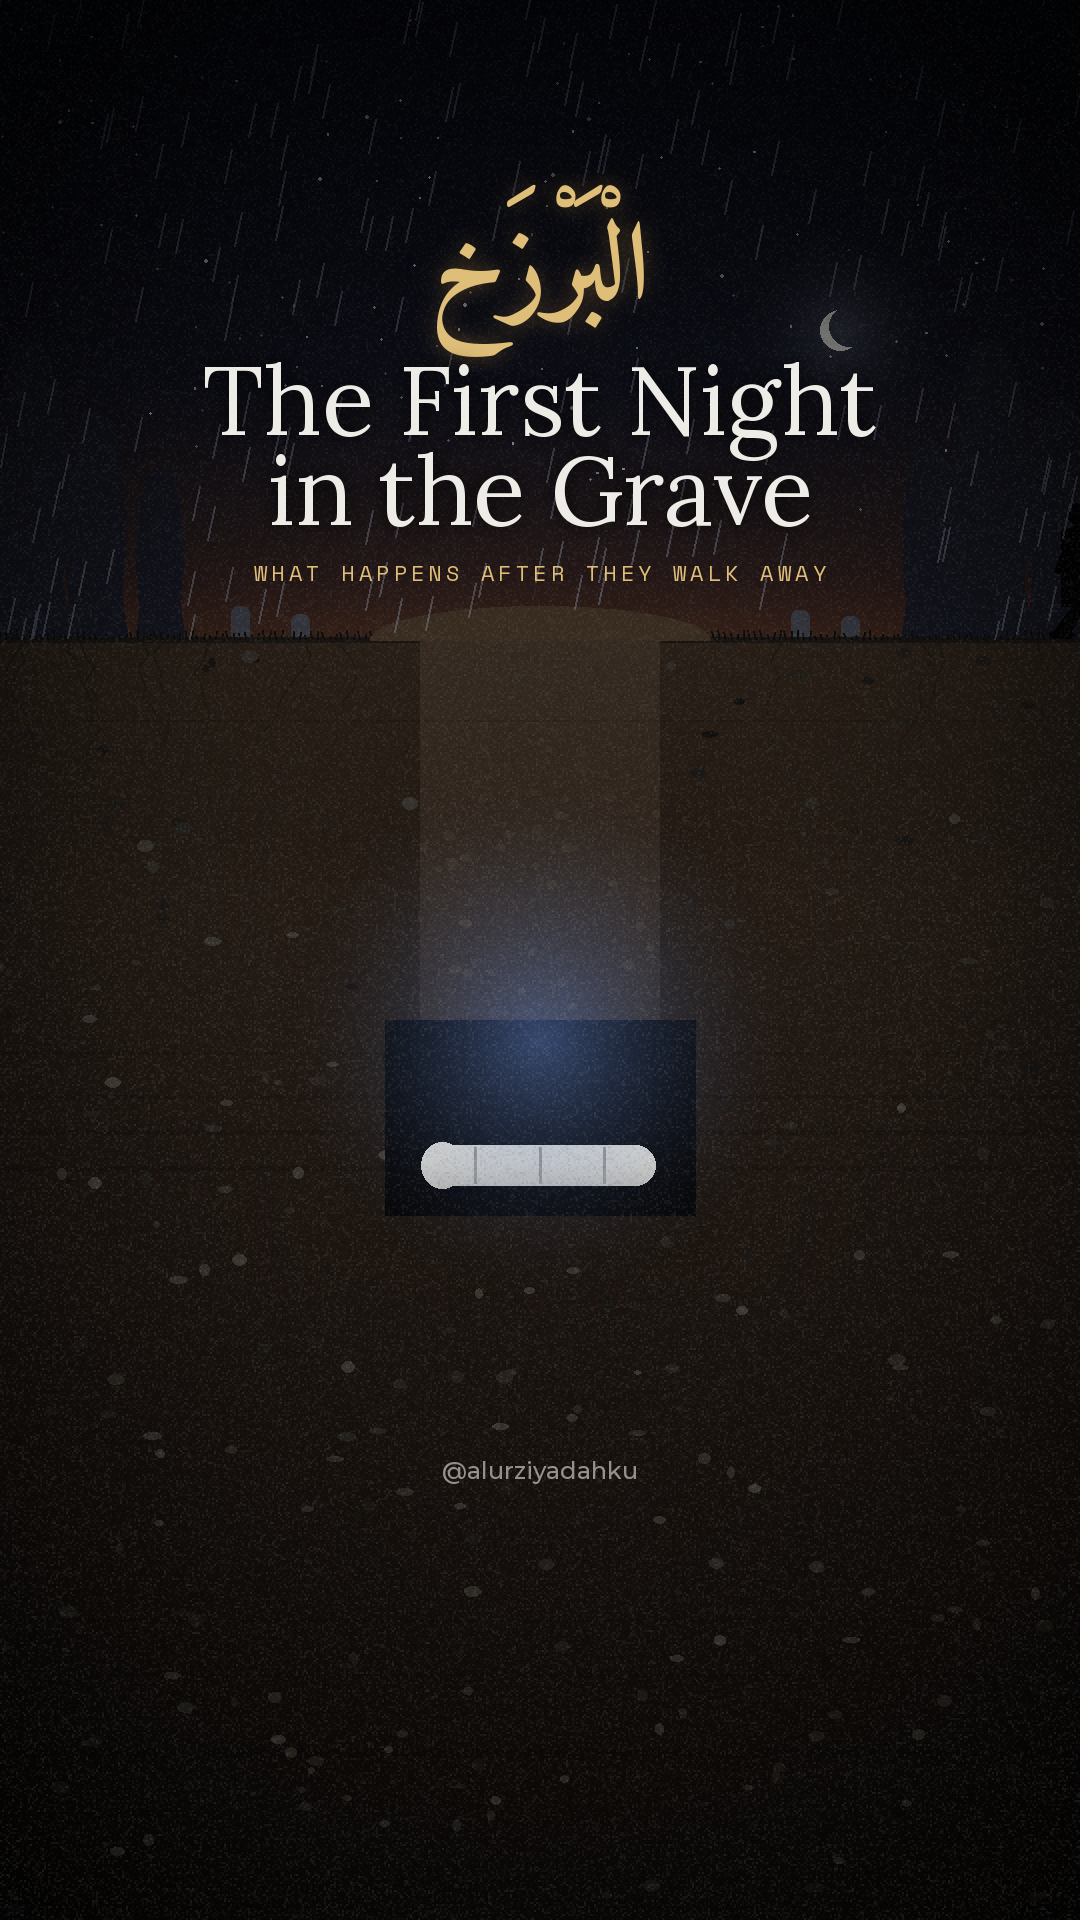
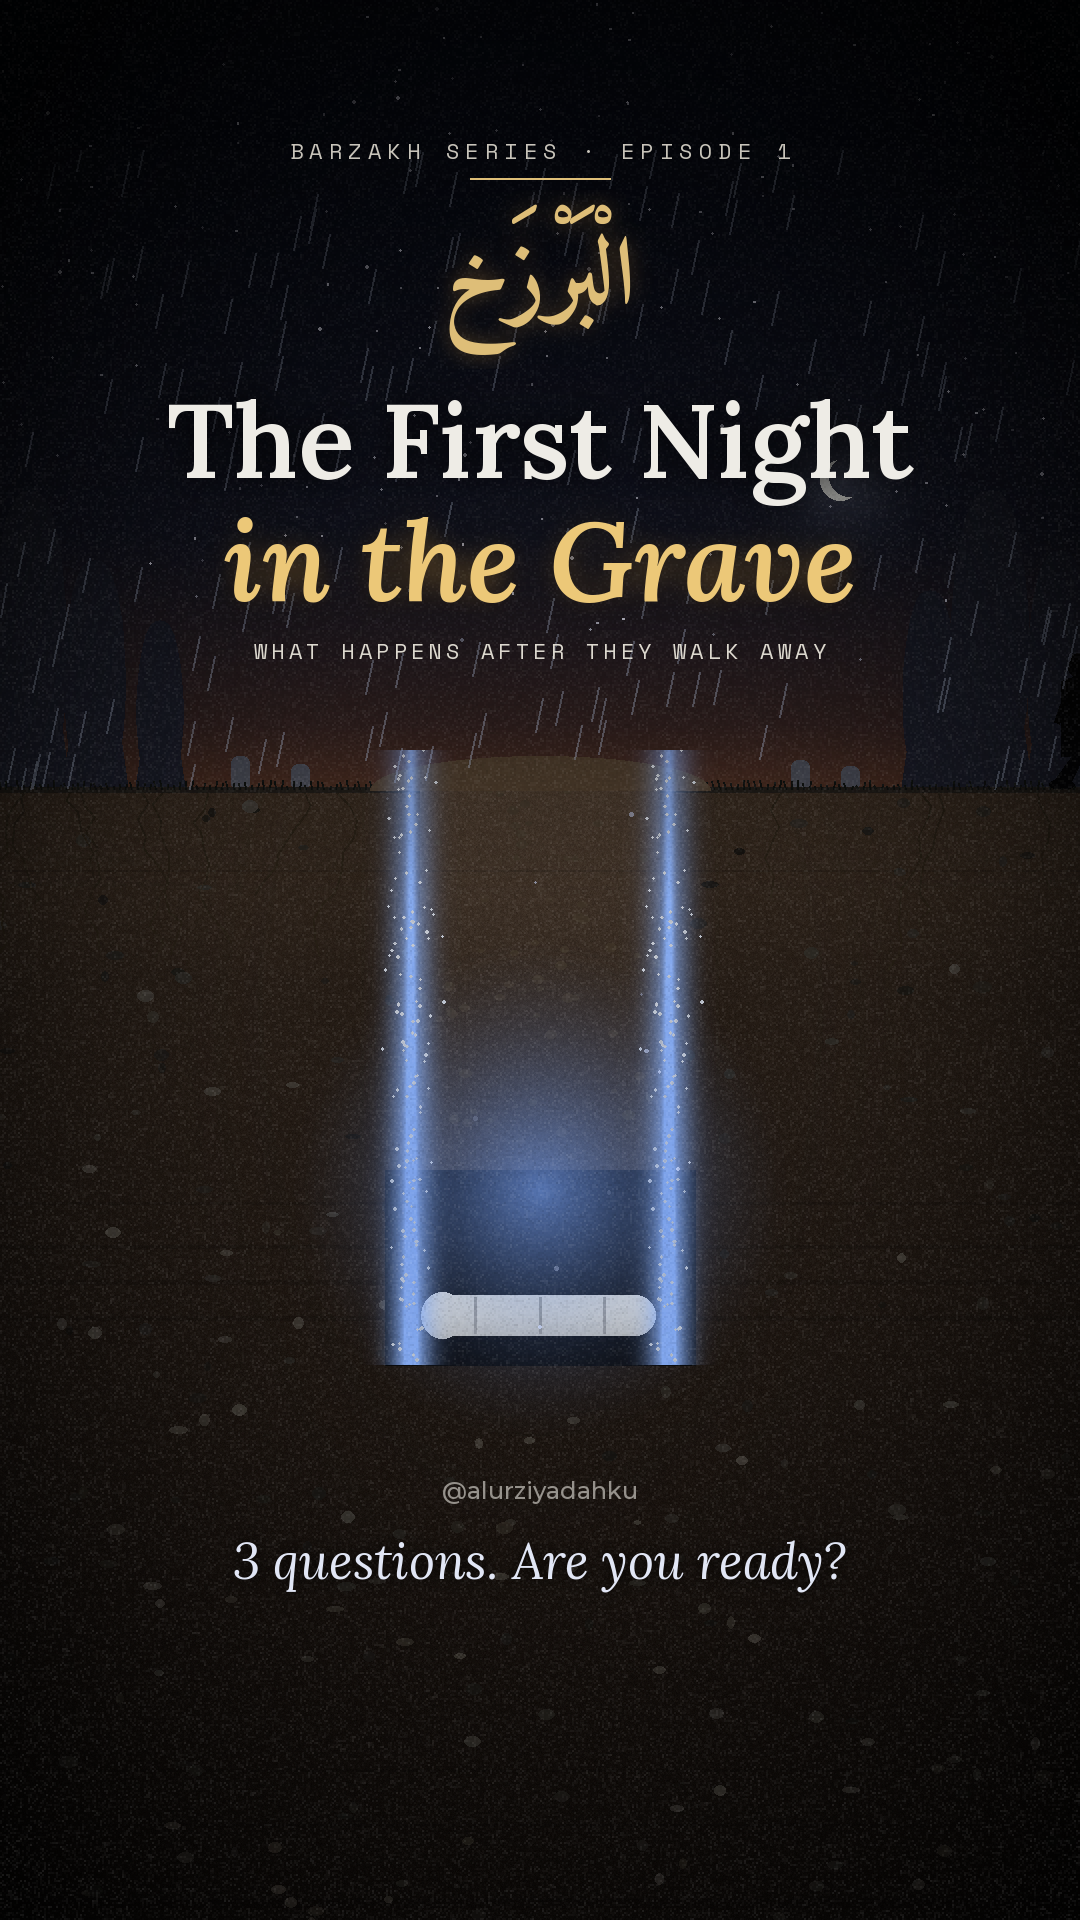
Video barzakh: cover lebih dramatis
Claude-Session: https://claude.ai/code/session_019tAwoDgDeCJuxDbbQtGirF

diff --git a/video-barzakh/cover_en.py b/video-barzakh/cover_en.py
@@ -4,25 +4,47 @@ import render_barzakh as rb
 from PIL import Image, ImageDraw, ImageFilter
 rb.build()
 W, H = rb.W, rb.H
-fr = rb.cs_frame(103.9)
-bl = rb.G["blue"].copy(); bl.putalpha(bl.getchannel("A").point(lambda v: int(v * 0.55))); fr.alpha_composite(bl)
-vl = Image.new("RGBA", (W, H), (0, 0, 0, 0)); vl.putalpha(rb.G["vig_a"].point(lambda a: int(a * 0.75))); fr.alpha_composite(vl)
+LORA_B = "fontsource-lora-5.3.0/package/files/lora-latin-600-normal.woff"
+LORA_BI = "fontsource-lora-5.3.0/package/files/lora-latin-600-italic.woff"
+cs = rb.cs_frame(103.9)
+# berkas cahaya & cahaya biru di liang (koordinat potongan melintang)
+bm = rb.G["beam"]
+for bx in (rb.CH_X0 + 26, rb.CH_X1 - 26):
+    cs.alpha_composite(bm, (int(bx - bm.width / 2), rb.CH_Y1 - bm.height))
+bl = rb.G["blue"].copy(); bl.putalpha(bl.getchannel("A").point(lambda v: int(min(255, v * 0.9)))); cs.alpha_composite(bl)
+rb.overlay_dust(cs, 3.0, (200, 215, 255), 1.0, (rb.CH_X0, rb.SURF, rb.CH_X1, rb.CH_Y1))
+# geser adegan ke bawah, isi langit di atas
+SH = 150
+fr = Image.new("RGBA", (W, H), (0, 0, 0, 255))
+fr.paste(rb.G["ext_sky"].crop((0, H - SH, W, H)), (0, 0))
+fr.paste(cs.crop((0, 0, W, H - SH)), (0, SH))
+vl = Image.new("RGBA", (W, H), (0, 0, 0, 0)); vl.putalpha(rb.G["vig_a"].point(lambda a: int(a * 0.85))); fr.alpha_composite(vl)
 fr.alpha_composite(rb.G["grain"][0])
 fr.alpha_composite(rb.G["topshade"])
-ar = rb.arabic_layer("الْبَرْزَخ", 110)
-fr.alpha_composite(ar, (0, 170))
 d = ImageDraw.Draw(fr)
-t1 = rb.F(rb.LORA_R, 96); t2 = rb.F(rb.LORA_I, 60)
+def spaced(y, txt, size, col, tr=4):
+    f = rb.F(rb.MONO, size)
+    x = 540 - (sum(d.textlength(c, font=f) for c in txt) + tr * (len(txt) - 1)) / 2
+    for c in txt:
+        d.text((x, y), c, font=f, fill=col, anchor="lm"); x += d.textlength(c, font=f) + tr
+spaced(150, "BARZAKH SERIES · EPISODE 1", 22, (200, 196, 186, 255), 6)
+d.line((470, 178, 610, 178), fill=rb.GOLD + (160,), width=2)
+ar = rb.arabic_layer("الْبَرْزَخ", 96)
+fr.alpha_composite(ar, (0, 190))
+t1 = rb.F(LORA_B, 104); t2 = rb.F(LORA_BI, 112)
 glow = Image.new("RGBA", (W, H), (0, 0, 0, 0)); gd = ImageDraw.Draw(glow)
-gd.text((540, 400), "The First Night", font=t1, fill=(0, 0, 0, 220), anchor="mm")
-gd.text((540, 490), "in the Grave", font=t1, fill=(0, 0, 0, 220), anchor="mm")
-fr.alpha_composite(glow.filter(ImageFilter.GaussianBlur(10)))
-d.text((540, 400), "The First Night", font=t1, fill=rb.WHITE, anchor="mm")
-d.text((540, 490), "in the Grave", font=t1, fill=rb.WHITE, anchor="mm")
-tw = 0
-f3 = rb.F(rb.MONO, 22); txt = "WHAT HAPPENS AFTER THEY WALK AWAY"
-x = 540 - (sum(d.textlength(c, font=f3) for c in txt) + 4 * (len(txt) - 1)) / 2
-for c in txt:
-    d.text((x, 572), c, font=f3, fill=rb.GOLD + (255,), anchor="lm"); x += d.textlength(c, font=f3) + 4
-fr.alpha_composite(rb.G["wm"], (0, 1440))
+gd.text((540, 440), "The First Night", font=t1, fill=(0, 0, 0, 230), anchor="mm")
+gd.text((540, 560), "in the Grave", font=t2, fill=(230, 170, 70, 200), anchor="mm")
+fr.alpha_composite(glow.filter(ImageFilter.GaussianBlur(16)))
+d = ImageDraw.Draw(fr)
+d.text((540, 440), "The First Night", font=t1, fill=rb.WHITE, anchor="mm")
+d.text((540, 560), "in the Grave", font=t2, fill=(236, 200, 120), anchor="mm")
+spaced(650, "WHAT HAPPENS AFTER THEY WALK AWAY", 22, (220, 216, 206, 255), 4)
+# kalimat pemancing di bawah
+hk = rb.F(rb.LORA_I, 50)
+g2 = Image.new("RGBA", (W, H), (0, 0, 0, 0)); ImageDraw.Draw(g2).text((540, 1560), "3 questions. Are you ready?", font=hk, fill=(0, 0, 0, 255), anchor="mm")
+fr.alpha_composite(g2.filter(ImageFilter.GaussianBlur(8)))
+d = ImageDraw.Draw(fr)
+d.text((540, 1560), "3 questions. Are you ready?", font=hk, fill=(225, 230, 245), anchor="mm")
+fr.alpha_composite(rb.G["wm"], (0, 1460))
 fr.convert("RGB").save("/home/user/Al-Qur-an/video-barzakh/cover_barzakh_en.png")
